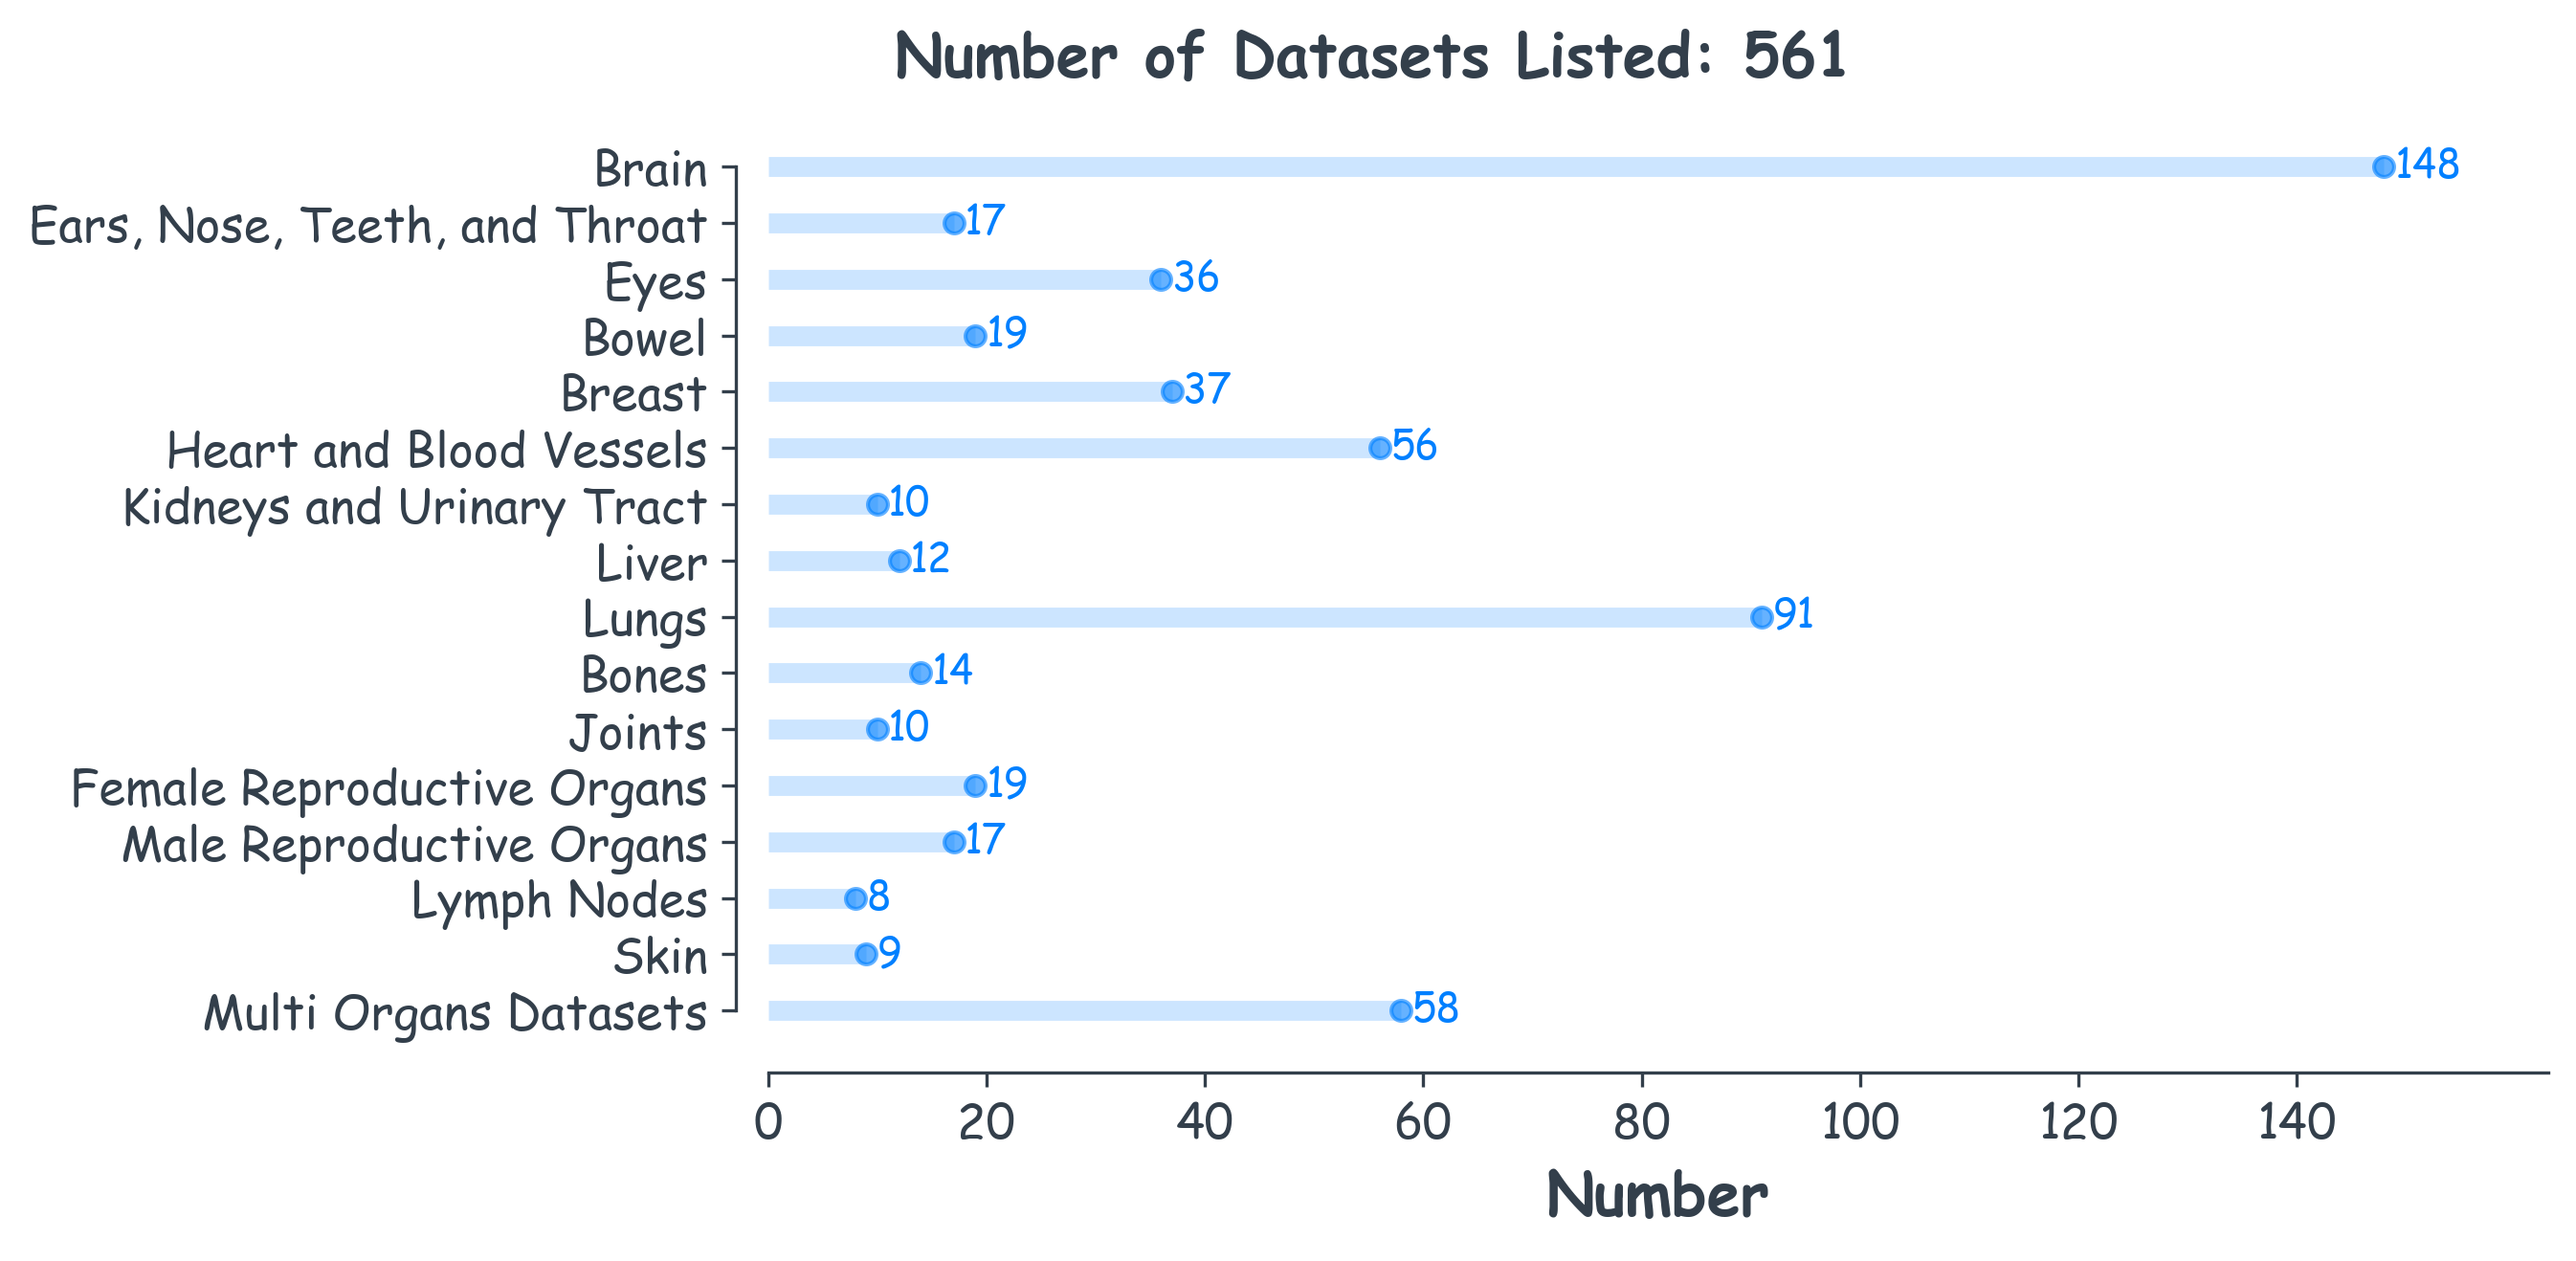
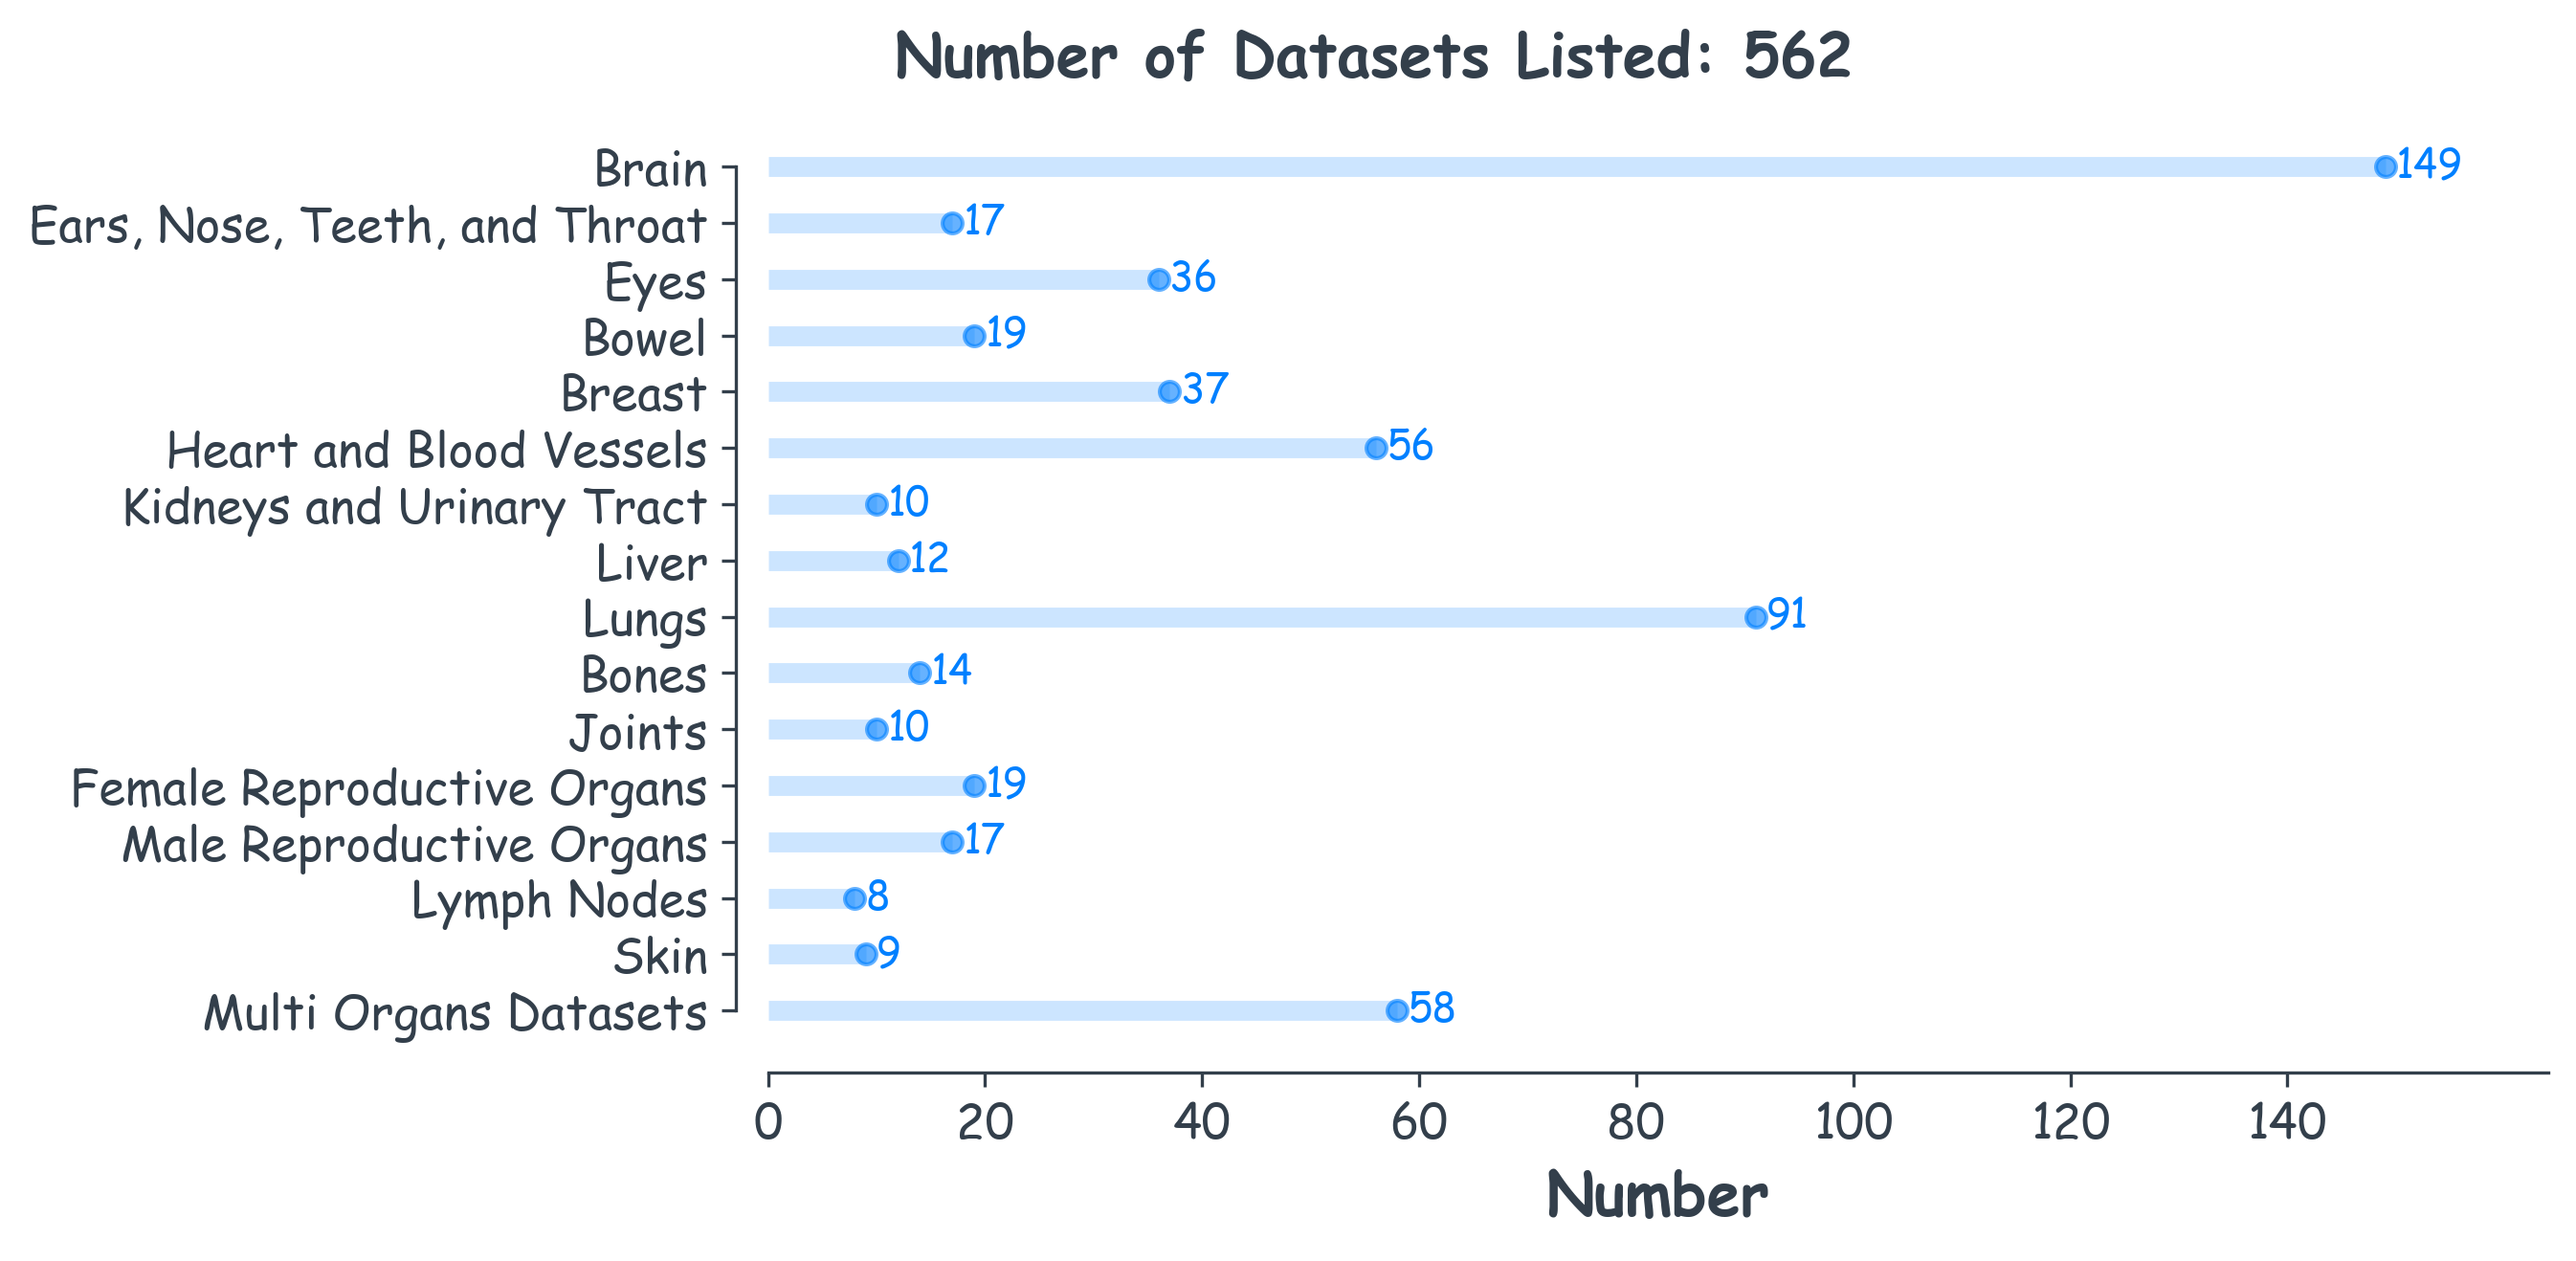
update image number, N = 562

diff --git a/src/datasetNumberImage.py b/src/datasetNumberImage.py
@@ -29,7 +29,7 @@ plt.rcParams['text.color']='#333F4B'
 
 
 data = {
-       'Brain': 148,
+       'Brain': 149,
        'Ears, Nose, Teeth, and Throat': 17, 
        'Eyes': 36,
        'Bowel': 19,
